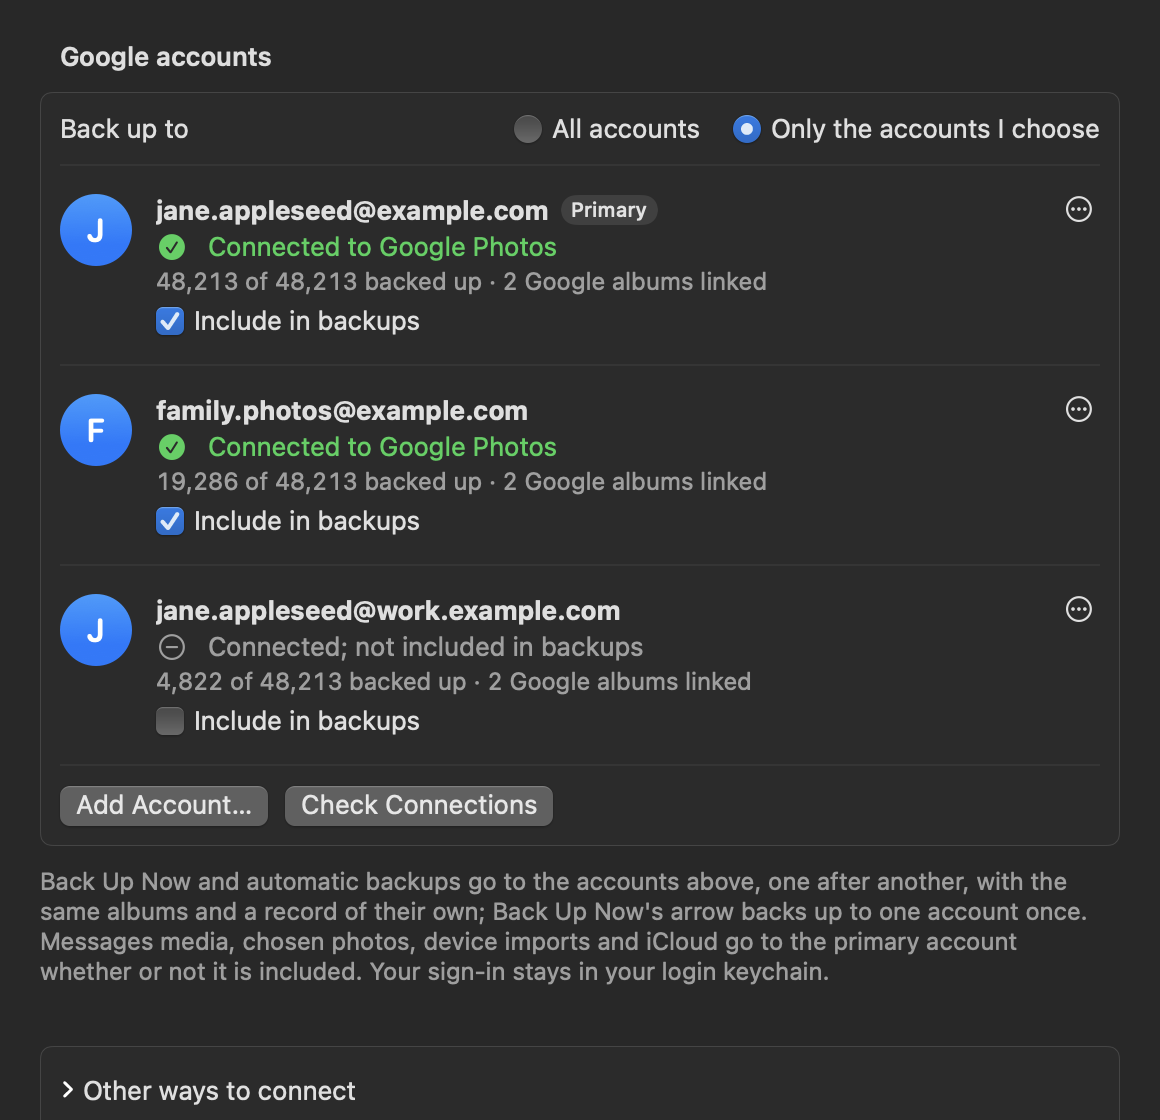
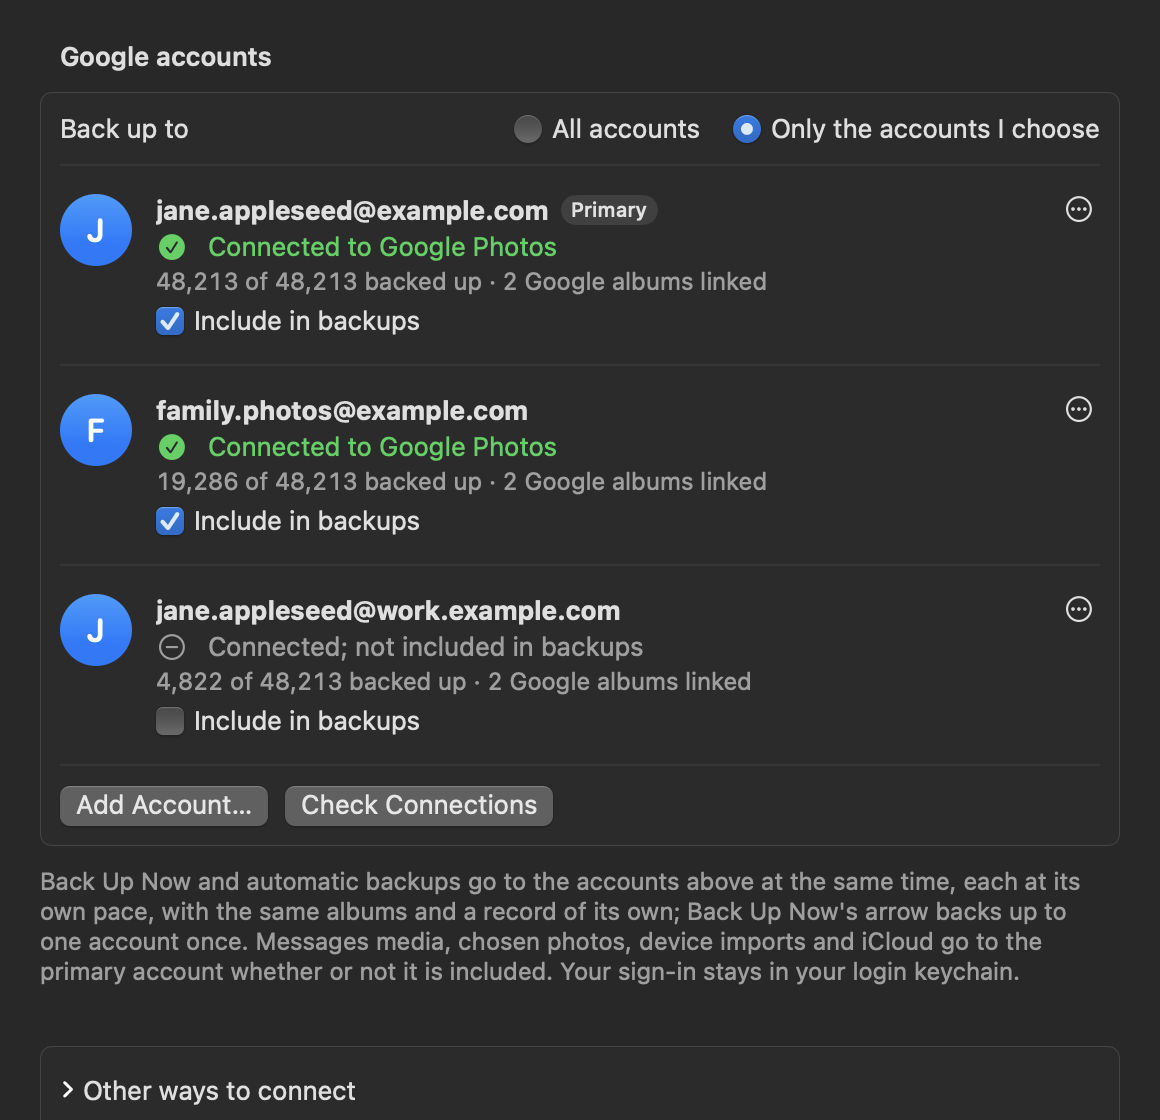
fix(settings): the Account text says backups go to every account at the same time
Since 0.6.2 the accounts back up side by side (#66), and since 0.6.3 each
at its own pace (#70); the help text still said one after another. The
accounts-settings images are re-rendered with the new text.

Changed region(s): [[0.031, 0.7812, 0.931, 0.875]]

diff --git a/Sources/PhotosBackup/Views/Settings/AccountSettingsTab.swift b/Sources/PhotosBackup/Views/Settings/AccountSettingsTab.swift
@@ -47,8 +47,8 @@ struct AccountSettingsTab: View {
                 Text(model.accounts.count > 1 ? "Google accounts" : "Google account")
             } footer: {
                 FormNote(model.showsAccountChoice
-                         ? "Back Up Now and automatic backups go to the accounts above, one after another, with the same albums and a record of their own; Back Up Now's arrow backs up to one account once. Messages media, chosen photos, device imports and iCloud go to the primary account whether or not it is included. Your sign-in stays in your login keychain."
-                         : "You sign in on Google's own page. Google hands back a token for a new Android device, the kind Google Photos for Android uses. It stays in your login keychain; the sign-in page's session is discarded. Every account gets the same albums, one account after another, each with its own record, so adding or removing one never touches the others.")
+                         ? "Back Up Now and automatic backups go to the accounts above at the same time, each at its own pace, with the same albums and a record of its own; Back Up Now's arrow backs up to one account once. Messages media, chosen photos, device imports and iCloud go to the primary account whether or not it is included. Your sign-in stays in your login keychain."
+                         : "You sign in on Google's own page. Google hands back a token for a new Android device, the kind Google Photos for Android uses. It stays in your login keychain; the sign-in page's session is discarded. Every account gets the same albums at the same time, each with its own record, so adding or removing one never touches the others.")
             }
 
             Section {
